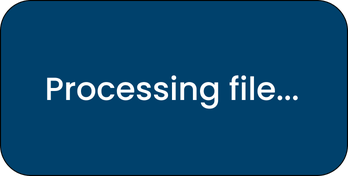
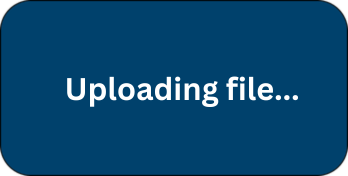
Add files via upload

diff --git a/new.py b/new.py
@@ -29,6 +29,47 @@ print('Application Info:', app_info)
 media_path = "video/Rain Rain Go Away.mp4"
 audio_path = "audio/Rain Rain Go Away.wav"
 
+def process_audio_file_special(file_path, api_key, image_12, image_13):
+    try:
+        audio_url = client.upload_file(file_path=file_path)
+        print('File Url:', audio_url)
+        # Create Job
+        workflow_params = {
+            'inputUrl': audio_url,
+        }
+        create_job_info = client.create_job(job_name='Chords Website', workflow_id='chords-detection',
+                                            params=workflow_params)
+        job_id = create_job_info['id']
+        print('Job Created:', job_id)
+        
+        image_12.place_forget()
+        image_13.place(
+            x=512.0,
+            y=321.0,
+            anchor="center"
+        )
+
+        # Wait for job to complete
+        job_info = client.wait_for_job_completion(job_id)
+        print('Job Status:', job_info['status'])
+
+        # Get job info
+        job_info = client.get_job(job_id=job_id)
+        print('Job Status:', job_info['status'])
+
+        chords_json_url = job_info['result']['chordsJSON']
+
+        chords_json_response = requests.get(chords_json_url)
+        chords_json_response.raise_for_status()
+        chords_data = chords_json_response.json()
+
+        result = chords_data
+
+        return result
+    except Exception as e:
+        print("Error:", e)
+        
+        
 def process_audio_file(file_path, api_key):
     try:
         audio_url = client.upload_file(file_path=file_path)
@@ -77,10 +118,15 @@ def process_chordfile(json_file):
     with open(json_file, 'r') as f:
         data = json.load(f)
     if data is not None:
+        output = "N"
         for entry in data:
-            if entry['chord_simple_pop'] != "None":
-                if entry['chord_simple_pop'] != "N":
-                    return entry['chord_simple_pop']
+            print(entry['chord_simple_pop'])
+            if entry['chord_simple_pop'] != "N":
+                output = entry['chord_simple_pop']
+            elif entry['nashville_tonic'] != "N":
+                output = entry['nashville_tonic']
+        return output
+            
     else:
         print("No data in JSON file")
         return None
@@ -246,7 +292,7 @@ def process_file(image_12):
     # Run the long-running task in a separate thread
     threading.Thread(target=long_running_task, args=(image_12,)).start()
     
-def process_file_chord(image_12):
+def process_file_chord(image_12, image_13):
     image_12.place(
         x=512.0,
         y=321.0,
@@ -255,18 +301,18 @@ def process_file_chord(image_12):
     
 
     # Run the long-running task in a separate thread
-    threading.Thread(target=long_running_task_chord, args=(image_12,)).start()
+    threading.Thread(target=long_running_task_chord, args=(image_12, image_13,)).start()
 
 def disable_event():
     pass  # do nothing when the user tries to close the window
 
-def long_running_task_chord(image_12):
+def long_running_task_chord(image_12, image_13):
     # os.remove("n.json")
     # os.mkdir("n.json")
     api_key = "e1582db2-6ef0-4bb7-a1cd-f08c76125a12"
     file_path = input_entry.get()
     print(file_path)
-    result = process_audio_file(file_path, api_key)
+    result = process_audio_file_special(file_path, api_key, image_12, image_13)
     out_file = open("n.json", "w")
     json.dump(result, out_file)
     out_file.close()
@@ -293,8 +339,10 @@ def long_running_task_chord(image_12):
     # Add the "center" tag to all the text
 
     # Make sure the window stays on top
-    master.attributes('-topmost', True)
-
+    if m == "N":
+       results_text.insert(tk.END, 'Kindly reupload/rerecord your audio.', 'red')
+ 
+        
     if selected_chord == m:
         results_text.insert(tk.END, m + ' ', 'black')
         results_text.insert(tk.END, "\nCongratulations! You correctly played the chord!")
@@ -307,7 +355,7 @@ def long_running_task_chord(image_12):
     results_text.tag_config('red', foreground='#FF474C')
     results_text.tag_add("center", 1.0, "end")
 
-    image_12.place_forget()
+    image_13.place_forget()
 
     # Pack the Text widget
     results_text.pack()
@@ -318,6 +366,7 @@ def long_running_task(image_12):
     api_key = "e1582db2-6ef0-4bb7-a1cd-f08c76125a12"
     file_path = input_entry.get()
     result = process_audio_file(file_path, api_key)
+    print(result)
     out_file = open("n.json", "w")
     result_json = json.dump(result, out_file)
     print(result_json)

diff --git a/gui1.py b/gui1.py
@@ -409,6 +409,20 @@ def chords_page(window):
         y=321.0,
         anchor="center"
     )
+    
+    image_image_13 = PhotoImage(
+        file=relative_to_assets("image_13.png")
+    )   
+    image_13 = tk.Label(
+        canvas,
+        image=image_image_13
+    )
+    image_13.place(
+        x=512.0,
+        y=321.0,
+        anchor="center"
+    )
+
 
     
     button_image_3 = PhotoImage(
@@ -418,7 +432,7 @@ def chords_page(window):
         borderwidth=0,
         highlightthickness=0,
         command=lambda: {
-            process_file_chord(image_12)
+            process_file_chord(image_12, image_13)
         },
         relief="flat"
     )
@@ -444,6 +458,7 @@ def chords_page(window):
     button_3.bind('<Enter>', button_3_hover)
     button_3.bind('<Leave>', button_3_leave)
     image_12.place_forget()
+    image_13.place_forget()
 
     window.resizable(False, False)
     window.mainloop()
